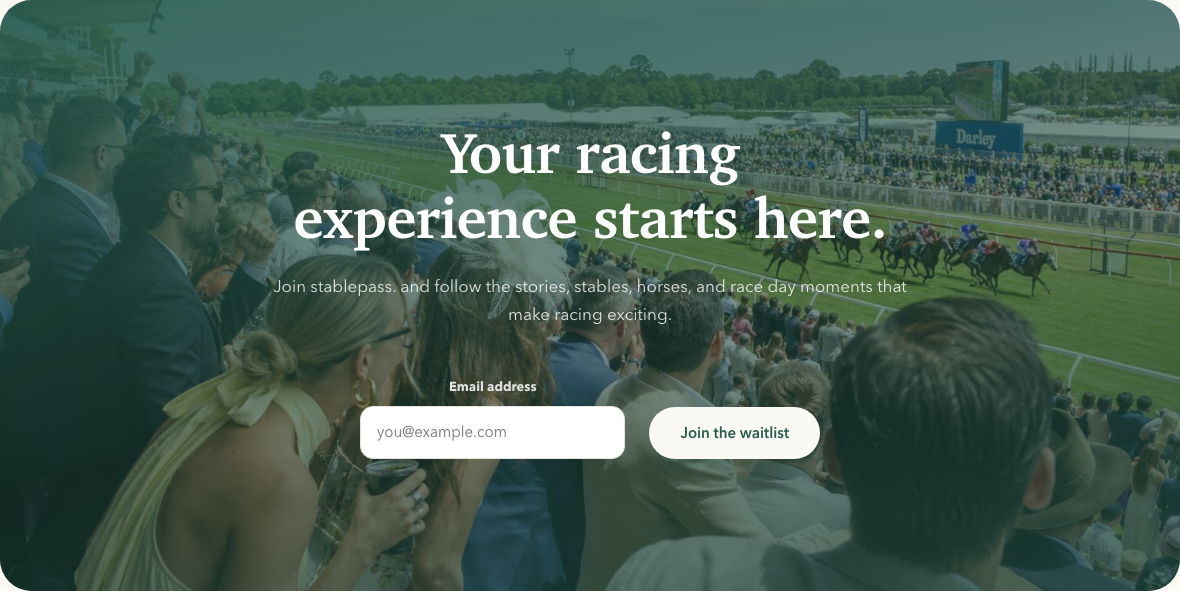
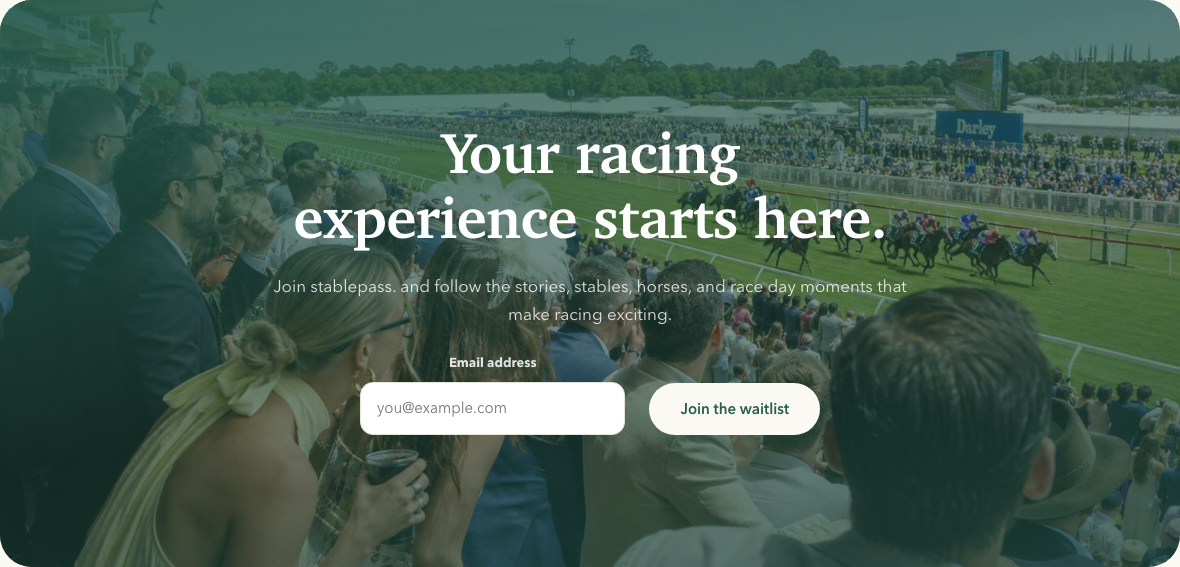
ENG-729 follow-up · review fixes that missed the #51 merge: touch-device join invite, defeatable CSS guard, phone screenshots (#52)
* ENG-729 follow-up: review fixes that missed the #51 merge

PR #51 was merged while the review was still running. Five findings, all
verified before fixing and each with a test that fails without the fix.

1. CONTENT BUG, the one that mattered. marketing.css opens @media (hover:none)
   and un-collapses .cta-trial-line, so on EVERY touch device the CTA band read
   "Join stablepass. Enjoy your free 30 day trial." directly above the waitlist
   form. #51 reasoned it was safe because it is prose rather than a link - true,
   and still wrong, because the reasoning was done without rendering the state.
   Now .launch-only, so trial and join modes are untouched and the switch-back
   stays byte-identical. No new CSS rule.

2. The phone screenshots were a resized DESKTOP context, which still reports
   hover:hover - so the phone evidence in #51 showed a state no phone renders,
   and is exactly why (1) got through. Now isMobile + hasTouch.

3. The CSS guard could be defeated. Appending one !important display rule on a
   .nav-* selector restores a visible /signin in waitlist mode with the whole
   vitest suite green, because ENG-600's nav exemption lifts those rules out of
   the ordered diff. Two new guards close it; both verified against the attack.

4. layout.tsx still claimed "Marketing is static, cacheable" - false since #51
   made / dynamic, in a file #51 itself edited.

5. The band's submit button was flush-left at phone widths, against its own
[…]

diff --git a/e2e/screenshots.spec.ts b/e2e/screenshots.spec.ts
@@ -971,7 +971,13 @@ test.describe("ENG-729 waitlist mode", () => {
 
     await page.locator("header.hero").screenshot({ path: `.rx/review/eng-729-hero-${label}.png` });
     await page.locator(".wrap.cta").screenshot({ path: `.rx/review/eng-729-cta-band-${label}.png` });
-    await page.screenshot({ path: `.rx/review/eng-729-full-${label}.png`, fullPage: true });
+    // Whole-page capture on DESKTOP only. It exists to evidence "no pricing
+    // section, no sign-in anywhere", which one wide view shows better than a
+    // very tall narrow one — and a full-page shot of this page on a 2x touch
+    // profile lands around 8-12MB, which has no business in a git repo.
+    if (label.endsWith("desktop")) {
+      await page.screenshot({ path: `.rx/review/eng-729-full-${label}.png`, fullPage: true });
+    }
   };
 
   test("hero and CTA band, scripting ON", async ({ page }) => {
@@ -981,11 +987,38 @@ test.describe("ENG-729 waitlist mode", () => {
     await shoot(page, "js-desktop");
   });
 
-  test("hero and CTA band, phone, scripting ON", async ({ page }) => {
-    await page.setViewportSize({ width: 390, height: 844 });
-    await page.goto("/");
-    await expect(page.locator("header.hero form.wl-form")).toBeVisible();
-    await shoot(page, "js-phone");
+  /**
+   * PHONE = a real touch profile, not a resized desktop window.
+   *
+   * `setViewportSize({width:390})` alone leaves the context reporting
+   * `hover: hover`, and marketing.css has a whole `@media (hover:none)` block
+   * that changes what is on screen — it un-collapses the CTA band's trial line,
+   * turns the hover-only tile and trainer overlays on, and more. Screenshots
+   * taken the narrow-desktop way therefore show a state no phone ever renders,
+   * which is worse than no screenshot: it is evidence for the wrong device, and
+   * the client reviews this site on a phone.
+   *
+   * `isMobile` + `hasTouch` rather than `devices["iPhone 13"]` because that
+   * preset carries `defaultBrowserType: "webkit"`; these are the two flags that
+   * actually drive the media queries under Chromium.
+   */
+  // No deviceScaleFactor: the media queries that decide what a phone shows key
+  // off isMobile/hasTouch, not pixel density, so 1x renders the identical layout
+  // at a quarter the file size. These are review evidence, not print assets.
+  const PHONE = { viewport: { width: 390, height: 844 }, isMobile: true, hasTouch: true };
+
+  test.describe("phone, scripting ON", () => {
+    test.use(PHONE);
+
+    test("hero and CTA band on a touch device", async ({ page }) => {
+      await page.goto("/");
+      await expect(page.locator("header.hero form.wl-form")).toBeVisible();
+      // The state the narrow-desktop capture was hiding: on a touch device the
+      // band's trial line is un-collapsed by `@media (hover:none)`, so this is
+      // where "Join stablepass. Enjoy your free 30 day trial." would show.
+      await expect(page.locator(".cta-trial-line")).toBeHidden();
+      await shoot(page, "js-phone");
+    });
   });
 
   test.describe("scripting OFF — the client's actual browsing mode", () => {
@@ -998,23 +1031,27 @@ test.describe("ENG-729 waitlist mode", () => {
       await shoot(page, "nojs-desktop");
     });
 
-    test("hero and CTA band render with no JavaScript, on a phone", async ({ page }) => {
-      await page.setViewportSize({ width: 390, height: 844 });
-      await page.goto("/");
-      await expect(page.locator("header.hero form.wl-form")).toBeVisible();
-      await shoot(page, "nojs-phone");
+    test.describe("on a touch device", () => {
+      test.use(PHONE);
+
+      test("hero and CTA band render with no JavaScript, on a phone", async ({ page }) => {
+        await page.goto("/");
+        await expect(page.locator("header.hero form.wl-form")).toBeVisible();
+        await expect(page.locator(".cta-trial-line")).toBeHidden();
+        await shoot(page, "nojs-phone");
+      });
+
+      test("the confirmation the native POST redirects back to", async ({ page }) => {
+        // The state that only exists because this ticket made `/` read
+        // searchParams. With scripting off there is nothing else that could have
+        // rendered this text, which is what makes the screenshot evidence.
+        await page.goto("/?joined=1");
+        const message = page.locator("header.hero p.wl-msg");
+        await expect(message).toBeVisible();
+        await expect(message).toContainText(/on the list/i);
+        await page.locator("header.hero").screenshot({ path: ".rx/review/eng-729-hero-nojs-joined.png" });
+      });
     });
 
-    test("the confirmation the native POST redirects back to", async ({ page }) => {
-      // The state that only exists because this ticket made `/` read
-      // searchParams. With scripting off there is nothing else that could have
-      // rendered this text, which is what makes the screenshot evidence.
-      await page.setViewportSize({ width: 390, height: 844 });
-      await page.goto("/?joined=1");
-      const message = page.locator("header.hero p.wl-msg");
-      await expect(message).toBeVisible();
-      await expect(message).toContainText(/on the list/i);
-      await page.locator("header.hero").screenshot({ path: ".rx/review/eng-729-hero-nojs-joined.png" });
-    });
   });
 });

diff --git a/e2e/marketing-funnel.spec.ts b/e2e/marketing-funnel.spec.ts
@@ -76,7 +76,10 @@ test.describe("marketing funnel (ENG-600, waitlist mode per ENG-729)", () => {
       els
         .filter((el) => {
           const href = el.getAttribute("href") ?? "";
-          if (!/^\/(start|signin)(\?|#|$)/.test(href)) return false;
+          // Root-relative AND absolute: middleware only rewrites the apex, so a
+          // section could re-introduce `https://app.stablepass.co/start` and a
+          // root-relative-only check would wave it through.
+          if (!/^(https?:\/\/[^/]+)?\/(start|signin)(\?|#|$)/.test(href)) return false;
           // offsetParent is null for a display:none subtree; the rect check
           // covers the position:fixed case offsetParent misses.
           const rect = el.getBoundingClientRect();
@@ -239,5 +242,46 @@ test.describe("the waitlist capture with JavaScript disabled", () => {
     // assertion that would catch someone "fixing" a hide with a script.
     await expect(page.locator("#subscription")).toBeHidden();
     await expect(page.locator("a.nav-signin")).toBeHidden();
+  });
+});
+
+/**
+ * ENG-729 — the page as a TOUCH device renders it.
+ *
+ * marketing.css closes with an `@media (hover:none)` block that materially
+ * changes what is on screen: hover-only affordances are shown outright, because
+ * hover never fires. A desktop run cannot see any of it, and a narrow desktop
+ * viewport still reports `hover: hover`, so this needs a real touch profile.
+ *
+ * This exists because a content bug shipped through exactly that gap: the CTA
+ * band's `.cta-trial-line` is un-collapsed here, so every phone read
+ * "Join stablepass. Enjoy your free 30 day trial." directly above the waitlist
+ * form. It was reasoned about ("prose, not a link") without the state ever being
+ * rendered. The client reviews this site on a phone, so this is his view.
+ */
+test.describe("waitlist mode on a touch device", () => {
+  test.use({ viewport: { width: 390, height: 844 }, isMobile: true, hasTouch: true });
+
+  test("makes no invitation to join a product that is not open", async ({ page }) => {
+    await page.goto("/");
+
+    // The regression this describe was created for.
+    await expect(page.locator(".cta-trial-line")).toBeHidden();
+
+    // And nothing else offers to sign you up either. Checked against VISIBLE
+    // rendered text, which is the only surface the client actually experiences.
+    const bandText = await page.locator(".wrap.cta").innerText();
+    expect(bandText, "the CTA band invites a join that cannot happen").not.toMatch(/free 30 day trial/i);
+
+    // The capture form is still the band's call to action.
+    await expect(page.locator(".cta-in form.wl-form")).toBeVisible();
+  });
+
+  test("keeps every hide honest where hover never fires", async ({ page }) => {
+    await page.goto("/");
+    await expect(page.locator("#subscription")).toBeHidden();
+    await expect(page.locator("a.nav-signin")).toBeHidden();
+    await expect(page.locator("a.nav-cta.launch-only")).toBeHidden();
+    await expect(page.getByRole("link", { name: "Join waitlist" })).toBeVisible();
   });
 });

diff --git a/test/marketing-shell.test.tsx b/test/marketing-shell.test.tsx
@@ -637,6 +637,7 @@ if (MOCKUP) {
           ".wl-msg",
           ".wl-msg-success",
           ".wl-msg-error",
+          ".cta-in .wl-form",
           ".cta-in .wl-field label",
           ".cta-in .wl-submit",
           ".cta-in .wl-submit:hover",
@@ -671,6 +672,49 @@ if (MOCKUP) {
               `[data-cta-mode="${mode}"] .cta-${other}`,
             );
           }
+        }
+      });
+
+      /**
+       * Closes a hole this ticket inherited and made load-bearing.
+       *
+       * ENG-600's `isNavRule` lifts EVERY `.nav-*` rule out of the ordered diff,
+       * and its own pin allows any selector merely starting with `.nav-actions`
+       * / `.nav-signin` / `.nav-in`. ENG-729 hangs the pre-launch hide of both
+       * product routes off `.nav-signin` and `.nav-cta` (via `.launch-only`),
+       * which puts that hide squarely inside the nav exemption.
+       *
+       * The consequence, verified rather than theorised: appending
+       *
+       *   .marketing .nav-actions .nav-signin{display:inline-flex !important}
+       *
+       * restores a visible, clickable /signin link in waitlist mode and the
+       * ENTIRE vitest suite stays green. This repo has no CI, so Playwright is
+       * the only other thing that would catch it, and only if someone runs it.
+       *
+       * `!important` on `display` is the whole attack — it beats the mode hide
+       * regardless of specificity or source order. The sheet uses `!important`
+       * three times today (animation, transition, transform, colour) and never
+       * on `display`, so banning that one pairing costs nothing and is checkable
+       * without a browser.
+       */
+      it("lets no rule force a hidden surface back on with !important", () => {
+        const forced = cssRules(MARKETING_CSS)
+          .map((r) => ({ selector: unscope(r.selector), decls: r.decls }))
+          .filter((r) => /display\s*:[^;]*!important/i.test(r.decls))
+          .map((r) => `${r.selector}{${r.decls}}`);
+        expect(forced, "an !important display can override the pre-launch hide").toEqual([]);
+      });
+
+      it("declares display on the pre-launch hooks in exactly one place", () => {
+        // `.launch-only` and `.price-sec` exist ONLY to be hidden. If anything
+        // else in the sheet gives either a display value, the last one wins and
+        // the hide is silently dead.
+        for (const hook of [".launch-only", ".price-sec"]) {
+          const declaring = cssRules(MARKETING_CSS)
+            .map((r) => ({ selector: unscope(r.selector), decls: r.decls }))
+            .filter((r) => r.selector.includes(hook) && /(^|;)\s*display\s*:/.test(r.decls));
+          expect(declaring.map((r) => r.decls), `${hook} display declarations`).toEqual(["display:none"]);
         }
       });
 

diff --git a/app/(marketing)/sections/cta.tsx b/app/(marketing)/sections/cta.tsx
@@ -18,11 +18,21 @@ import WaitlistForm from "../waitlist-form";
  * stay in the DOM and are hidden by mode, so the launch switch-back is one line
  * in layout.tsx.
  *
- * `.cta-trial-line` deliberately keeps its copy. It is the band's hover-reveal
- * line and it promises the same 30-day trial the waitlist line promises; the
- * ticket scopes trial-mentioning prose (the FAQ, this line) as OUT, since the
- * waitlist enables that trial rather than replacing it. What it must NOT do is
- * offer a route to /start, and it does not — it is prose, not a link.
+ * `.cta-trial-line` is `.launch-only`. An earlier pass left it visible, reasoning
+ * that trial-mentioning prose is scoped OUT of this ticket and that this line is
+ * prose rather than a link. Both are true and the conclusion was still wrong,
+ * because the reasoning was done without looking at the rendered state:
+ * marketing.css opens `@media (hover:none)` and un-collapses this line outright
+ * (`max-height:4em;opacity:1`) — the band's hover reveal never fires on a touch
+ * device, so the line is simply ON. Every phone therefore read
+ * "Join stablepass. Enjoy your free 30 day trial." directly above a form whose
+ * entire premise is that you cannot join yet, under a heading that already says
+ * "Join stablepass. and follow the stories…". Two invitations to join, on the
+ * page that exists because joining is not open.
+ *
+ * `.launch-only` rather than `.cta-trial`: it hides the line in waitlist mode
+ * ONLY, so trial and join modes keep rendering it exactly as they do today and
+ * the switch-back stays byte-identical. It also costs no new CSS rule.
  */
 export default function CtaBand({ joined, reason }: { joined?: string | null; reason?: string | null }) {
   return (
@@ -36,7 +46,7 @@ export default function CtaBand({ joined, reason }: { joined?: string | null; re
           <p>
             Join stablepass. and follow the stories, stables, horses, and race day moments that make racing exciting.
           </p>
-          <p className="cta-trial-line">Join stablepass. Enjoy your free 30 day trial.</p>
+          <p className="cta-trial-line launch-only">Join stablepass. Enjoy your free 30 day trial.</p>
           <a className="btn btn-cream cta-trial" href="/start">
             Start your free 30 day trial
           </a>

diff --git a/app/(marketing)/marketing.css b/app/(marketing)/marketing.css
@@ -839,6 +839,12 @@
      accessibility tree and defeat the point of keeping it mounted. */
   .marketing .wl-msg{flex:1 0 100%;margin:0;font-size:13px;color:var(--mut)}
   .marketing .wl-msg-success{color:var(--brand);font-weight:600}
+  /* The mockup has no error state, so there is no token to reuse. This is the
+     one un-derived value in the block: the paper background's ink (--ink #1E2B26)
+     pulled toward the warning end far enough to read as an error against
+     var(--card) at 13px, while staying inside the muted, earthy range the sheet
+     uses everywhere else. Promote it to a token the moment the design system
+     grows a real error colour. */
   .marketing .wl-msg-error{color:#A8412C}
 
   /* The band sits on a dark photograph. The mockup's own answer to a control on
@@ -848,6 +854,11 @@
      needs the same treatment: `.field label` is #3D4E46, near-invisible there.
      The status line needs nothing — `.cta-in p` already lightens it and is the
      more specific selector. */
+  /* `.cta-in` centres every other child, but a wrapped flex row does not inherit
+     that — once the field drops below its 200px basis the button lands on its own
+     line flush-left inside a centred column. Only visible on a phone, which is
+     exactly where this band is read. */
+  .marketing .cta-in .wl-form{justify-content:center}
   .marketing .cta-in .wl-field label{color:rgba(255,255,255,.85)}
   .marketing .cta-in .wl-submit{background:var(--paper);color:var(--brand)}
   .marketing .cta-in .wl-submit:hover{background:#fff}

diff --git a/app/(marketing)/layout.tsx b/app/(marketing)/layout.tsx
@@ -11,9 +11,16 @@ import { CANONICAL_ORIGIN, MARKETING_IS_INDEXABLE, canonicalFor } from "@/lib/se
  * routes W4 adds next. The member app keeps its own root layout — this one adds
  * the marketing wrapper inside it, which is what carries the scoped tokens.
  *
- * No Supabase import belongs anywhere in this route group. Marketing is static,
- * cacheable and off the auth-cookie path; that separation is the whole reason
- * the marketing site moved onto its own host.
+ * No Supabase import belongs anywhere in this route group, and marketing stays
+ * off the auth-cookie path — that separation is the whole reason the marketing
+ * site moved onto its own host.
+ *
+ * It is no longer STATIC, though. ENG-729 made `/` read `searchParams` (see
+ * page.tsx for why: it is what lets the no-JS form post land on a visible
+ * confirmation), so the home route is server-rendered per request and is not
+ * CDN-cacheable by default. The legal routes are untouched and still prerender.
+ * Recovering the cache is a follow-up — `/` has no personalisation, so a
+ * `public, s-maxage=…` header for that one path gets it back.
  */
 
 /**

diff --git a/.rx/gotchas.md b/.rx/gotchas.md
@@ -746,3 +746,44 @@ describe will throw in the second one. Use Playwright actions that go over CDP
 instead — `locator.scrollIntoViewIfNeeded()`, `locator.fill()`, `locator.click()`
 all work with page scripting disabled; anything evaluating in page context does
 not.
+
+## A narrow viewport is NOT a phone — `@media (hover:none)` changes the page
+`page.setViewportSize({width:390})` on a normal context still reports
+`hover: hover`. marketing.css closes with an `@media (hover:none)` block that
+materially changes what is on screen: it un-collapses `.cta-trial-line`, and
+turns the `.t-over` / `.tr-over` hover overlays on. So a "phone" screenshot taken
+by resizing is evidence for a device that does not exist, and it will hide real
+content bugs — this is exactly how ENG-729 shipped "Join stablepass. Enjoy your
+free 30 day trial." onto every phone, directly above the waitlist form, through
+a review that included looking at the phone screenshots.
+→ Use `test.use({ viewport: {...}, isMobile: true, hasTouch: true })`. Skip
+`deviceScaleFactor` (the media queries key off the mobile flags, not density; 1x
+is the same layout at a quarter the bytes) and avoid `devices["iPhone 13"]`,
+whose `defaultBrowserType: "webkit"` fights a chromium project. Any marketing
+ticket touching the CTA band, the tiles or the trainer strip needs a touch-profile
+assertion, not just a narrow one.
+
+## ENG-600's nav exemption is a hole you can drive a visible /signin through
+`isNavRule` in `test/marketing-shell.test.tsx` lifts EVERY `.nav-*` rule out of
+the `marketing.css` ordered diff, and the nav pin allows any selector merely
+`startsWith(".nav-actions"|".nav-signin"|".nav-in")`. Appending one line —
+`.marketing .nav-actions .nav-signin{display:inline-flex !important}` — restores
+a visible, clickable `/signin` in waitlist mode with the ENTIRE vitest suite
+green. It matters because ENG-729 hangs the pre-launch hide of both product
+routes off `.nav-signin`/`.nav-cta`, i.e. inside that exemption, and this repo
+has no CI.
+→ ENG-729's follow-up added two cheap guards: ban `display` + `!important`
+anywhere in the sheet (it is used 3x today, never on display), and require
+`.launch-only`/`.price-sec` to carry exactly one display declaration, `none`.
+Any future security-relevant hide that lands on a `.nav-*` selector needs the
+same treatment — the ordered diff will NOT catch it.
+
+## A merged PR can land while its review is still running
+ENG-729's PR was squash-merged (branch auto-deleted) while the adversarial review
+was still working; the review then returned five findings including a real
+content bug. `git push` fails with "upstream is gone" and `git ls-remote` shows
+nothing, which looks alarming and is not — check `gh pr view <n>` for `MERGED`.
+→ Do not try to resurrect the branch. Cut a NEW branch off the freshly-fetched
+integration tip and open a follow-up PR (repo precedent: #48 for ENG-761, #52 for
+ENG-729). Save the uncommitted work as a patch BEFORE any branch operation.
+
